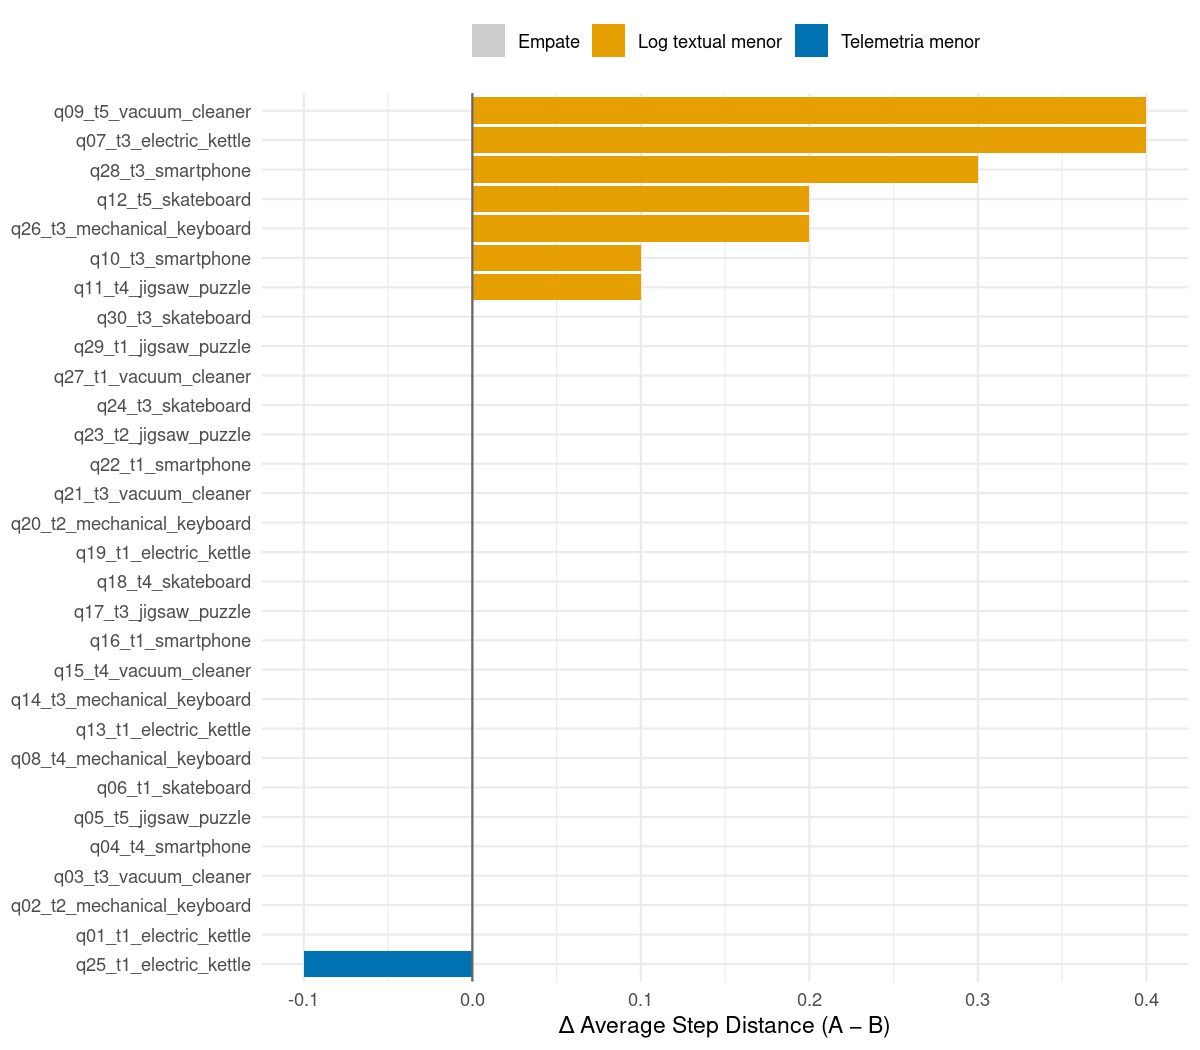
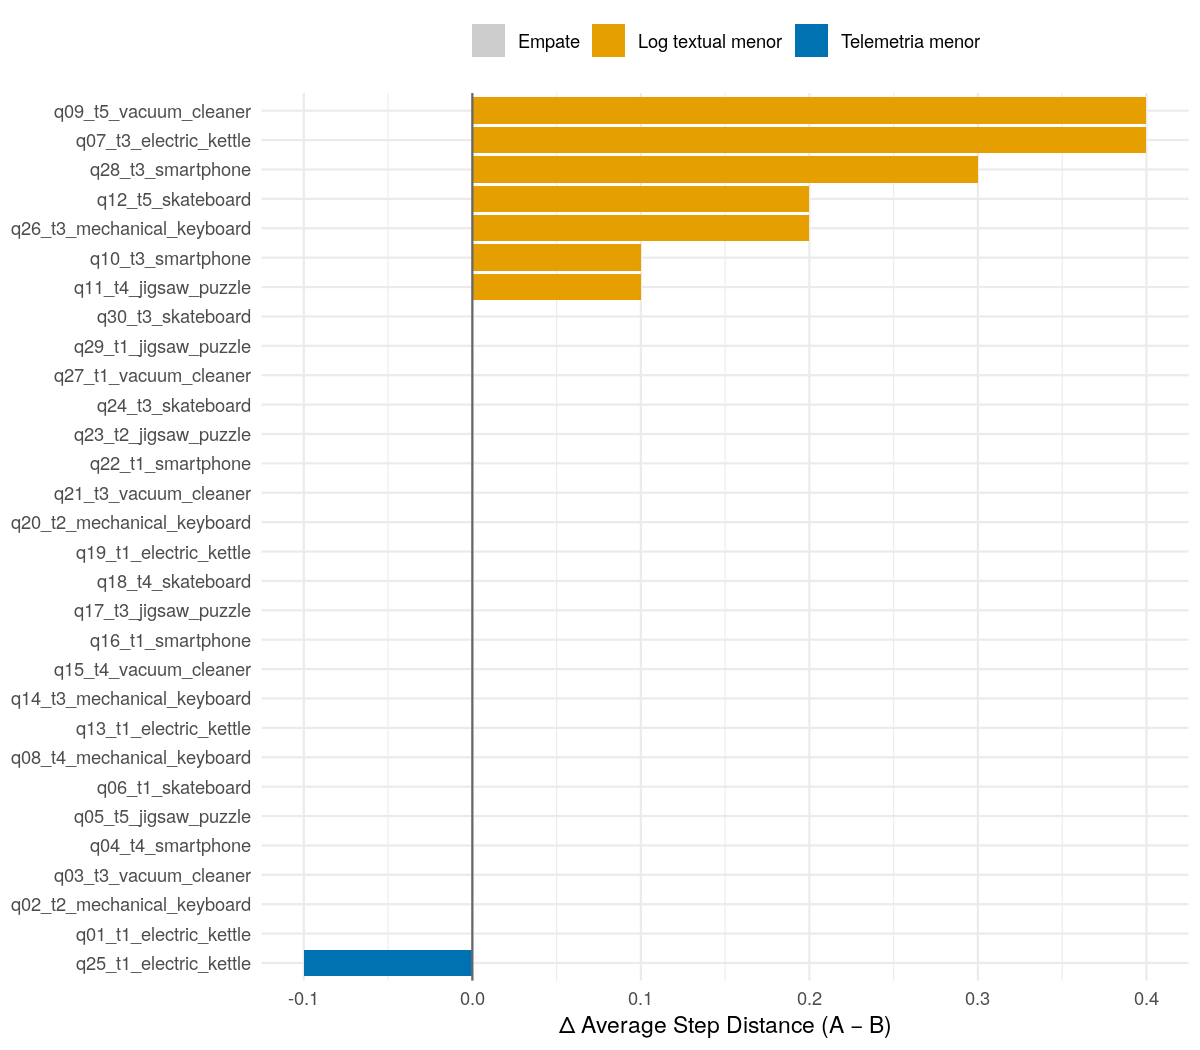
feat: add Renv and container to execute R

diff --git a/tests/test_r_environment.py b/tests/test_r_environment.py
@@ -1,0 +1,49 @@
+"""Static contracts for the reproducible R analysis environment."""
+
+from __future__ import annotations
+
+import json
+from pathlib import Path
+
+ROOT = Path(__file__).resolve().parent.parent
+
+
+def _content(path: Path) -> str:
+    return path.read_text(encoding="utf-8")
+
+
+def test_analysis_r_environment_contract_is_reproducible() -> None:
+    lockfile = json.loads(_content(ROOT / "renv.lock"))
+    packages = lockfile["Packages"]
+    makefile = _content(ROOT / "Makefile")
+    restore_script = _content(ROOT / "scripts" / "analysis" / "restore_renv.R")
+    dockerfile = _content(ROOT / "docker" / "analysis" / "Dockerfile")
+    analysis_guide = _content(ROOT / "data" / "experiment" / "analysis" / "README.md")
+
+    assert lockfile["R"]["Version"] == "4.1.2"
+    assert set(
+        "renv readr dplyr tidyr scales boot broom rmarkdown knitr ggplot2".split()
+    ) <= set(packages)
+    assert "renv::restore" in restore_script
+    assert '"renv", "library"' in restore_script
+
+    for target in ("r-restore:", "analyze-container:", "R_ANALYSIS_LIBRARY"):
+        assert target in makefile
+    assert '--volume "$(CURDIR):/workspace"' in makefile
+    for token in (
+        "FROM rocker/r-ver:4.1.2",
+        "curl",
+        "libuv1-dev",
+        "pandoc",
+        "restore_renv.R",
+    ):
+        assert token in dockerfile
+    assert '--user "$$(id -u):$$(id -g)"' in makefile
+    for command in ("`make r-restore`", "`make analyze-container`", "`renv.lock`"):
+        assert command in analysis_guide
+    for heading in (
+        "## Escolha como executar a análise",
+        "### Opção A — R local",
+        "### Opção B — Docker (sem R local)",
+    ):
+        assert heading in analysis_guide

diff --git a/src/agentrx_otel_poc/graph/spans.py b/src/agentrx_otel_poc/graph/spans.py
@@ -1,4 +1,4 @@
-"""Category-blind span helpers (R5).
+"""Category-blind span helpers.
 
 `render`-style helpers receive only step data (messages, role, operation, tool
 result). They never receive `target_fault_category`/`injection_node`; the same

diff --git a/docs/operacao.md b/docs/operacao.md
@@ -85,6 +85,51 @@ importa AgentRx nem recalcula as métricas. Além das seis tabelas, produz `anal
 fluxo não gera HTML. Veja os dicionários de [resultados](../data/experiment/results/README.md) e
 [análise](../data/experiment/analysis/README.md).
 
+## Escolha como executar a análise
+
+Após `make collect`, escolha **uma** das alternativas abaixo. Ambas leem o mesmo `metricas.csv` e `runs_long.csv`,
+escrevem os seis CSVs, o Markdown e os PNGs em `data/experiment/analysis/<mas_id>/<judge_id>/` e não geram HTML.
+
+Sem `METRICS`, os alvos resolvem a execução padrão a partir da configuração do MAS e do juiz. Para analisar um resultado
+específico, informe sempre `METRICS=data/experiment/results/<mas_id>/<judge_id>/metricas.csv`.
+
+### Opção A — R local
+
+Use se já tiver R 4.1.2 instalado. Na primeira vez (ou após alterar `renv.lock`), restaure o ambiente isolado do
+projeto:
+
+```bash
+make r-restore
+```
+
+Depois, gere a análise padrão ou selecione uma execução:
+
+```bash
+make analyze
+make analyze METRICS=data/experiment/results/<mas_id>/<judge_id>/metricas.csv
+```
+
+`make r-restore` é o único passo que instala ou baixa pacotes. A biblioteca `renv/library/` e o cache `.renv/` ficam
+fora do versionamento; `make analyze` não acessa a rede e indica como restaurar o ambiente se ele estiver ausente.
+
+### Opção B — Docker (sem R local)
+
+Use se não tiver R instalado, mas tiver Docker. O alvo `make analyze-container` constrói a imagem com R 4.1.2, Pandoc e
+o `renv.lock`; depois roda a mesma análise no repositório montado, preservando o UID:GID do usuário anfitrião.
+
+```bash
+make analyze-container
+make analyze-container METRICS=data/experiment/results/<mas_id>/<judge_id>/metricas.csv
+```
+
+Esse caminho requer Docker, mas não `Rscript` no anfitrião. A primeira execução baixa e constrói a imagem; as
+posteriores reutilizam suas camadas enquanto o lockfile não mudar.
+
+As células são valores de apresentação para as tabelas do artigo. Percentuais, contagens e estatísticas são serializados
+como texto para preservar formatação; células não aplicáveis são escritas vazias, não como `NA`. Requer `Rscript` e os
+pacotes `readr`, `dplyr`, `tidyr`, `scales`, `boot`, `broom`, `rmarkdown`, `knitr` e `ggplot2`, além de Pandoc. A
+geração não instala dependências nem acessa a rede.
+
 ### Fatiar ou retomar a matriz
 
 ```bash

diff --git a/data/experiment/analysis/README.md b/data/experiment/analysis/README.md
@@ -5,6 +5,46 @@
 relatório Markdown GFM e figuras PNG em `data/experiment/analysis/<mas_id>/<judge_id>/`. A análise é leitura pura: não
 importa AgentRx nem recalcula métricas do coletor.
 
+## Escolha como executar a análise
+
+Após `make collect`, escolha **uma** das alternativas abaixo. Ambas leem o mesmo `metricas.csv` e `runs_long.csv`,
+escrevem os seis CSVs, o Markdown e os PNGs em `data/experiment/analysis/<mas_id>/<judge_id>/` e não geram HTML.
+
+Sem `METRICS`, os alvos resolvem a execução padrão a partir da configuração do MAS e do juiz. Para analisar um resultado
+específico, informe sempre `METRICS=data/experiment/results/<mas_id>/<judge_id>/metricas.csv`.
+
+### Opção A — R local
+
+Use se já tiver R 4.1.2 instalado. Na primeira vez (ou após alterar `renv.lock`), restaure o ambiente isolado do
+projeto:
+
+```bash
+make r-restore
+```
+
+Depois, gere a análise padrão ou selecione uma execução:
+
+```bash
+make analyze
+make analyze METRICS=data/experiment/results/<mas_id>/<judge_id>/metricas.csv
+```
+
+`make r-restore` é o único passo que instala ou baixa pacotes. A biblioteca `renv/library/` e o cache `.renv/` ficam
+fora do versionamento; `make analyze` não acessa a rede e indica como restaurar o ambiente se ele estiver ausente.
+
+### Opção B — Docker (sem R local)
+
+Use se não tiver R instalado, mas tiver Docker. O alvo `make analyze-container` constrói a imagem com R 4.1.2, Pandoc e
+o `renv.lock`; depois roda a mesma análise no repositório montado, preservando o UID:GID do usuário anfitrião.
+
+```bash
+make analyze-container
+make analyze-container METRICS=data/experiment/results/<mas_id>/<judge_id>/metricas.csv
+```
+
+Esse caminho requer Docker, mas não `Rscript` no anfitrião. A primeira execução baixa e constrói a imagem; as
+posteriores reutilizam suas camadas enquanto o lockfile não mudar.
+
 As células são valores de apresentação para as tabelas do artigo. Percentuais, contagens e estatísticas são serializados
 como texto para preservar formatação; células não aplicáveis são escritas vazias, não como `NA`. Requer `Rscript` e os
 pacotes `readr`, `dplyr`, `tidyr`, `scales`, `boot`, `broom`, `rmarkdown`, `knitr` e `ggplot2`, além de Pandoc. A

diff --git a/data/experiment/analysis/Gemma3-27B-RUN-3/judge-codex-gpt-5-5/analysis_report.md b/data/experiment/analysis/Gemma3-27B-RUN-3/judge-codex-gpt-5-5/analysis_report.md
@@ -1,19 +1,6 @@
 MAS-SIM — Telemetria (A) vs Log textual (B)
 ================
 
-  - [Resumo descritivo](#resumo-descritivo)
-      - [Acurácias](#acurácias)
-      - [Distância de passo](#distância-de-passo)
-  - [Localização da etapa crítica](#localização-da-etapa-crítica)
-      - [Resultados por categoria](#resultados-por-categoria)
-  - [Classificação da causa raiz](#classificação-da-causa-raiz)
-      - [Acurácia de categoria por
-        cenário](#acurácia-de-categoria-por-cenário)
-  - [Comparação pareada](#comparação-pareada)
-      - [Distância por cenário](#distância-por-cenário)
-      - [Testes inferenciais](#testes-inferenciais)
-  - [Placar por cenário](#placar-por-cenário)
-
 **MAS:** Gemma3-27B-RUN-3 | **Juiz:** judge-codex-gpt-5-5 |
 **Cenários:** 30 | **Repetições por cenário:** 10
 

diff --git a/docs/prd/PRD-08-decisions-log.md b/docs/prd/PRD-08-decisions-log.md
@@ -51,6 +51,7 @@ descartadas. Acrescentar ao final; não reescrever o histórico.
 | D44 | **Análise A/B (C8) em R modular, só tabelas** (change `analyze-results-c8`): `c8_lib.R`/`c8_tables.R`/`c8_run.R` leem `metricas.csv` **e** `runs_long.csv` e escrevem as 6 tabelas do artigo em `data/experiment/analysis/<mas_id>/<judge_id>/` (`make analyze`). A tabela de frequência/MAE por categoria exige o **por-rep** (`runs_long.csv`); as demais vêm do agregado. **Rótulos seguem o artigo** (design D7): braço B = "Log textual (B)" (não "AgentRx (B)"), métricas canônicas (`Critical Step Accuracy`/`Failure Category Accuracy`/`Average Step Distance`), categorias com nome completo, experimento "MAS-SIM". **Escrita em thread única** (`readr.num_threads=1`): a escrita paralela do vroom rasgava strings multibyte (✓/✗) de forma nondeterminística → só assim os CSVs são byte-estáveis. **Figuras adiadas** (change futura); `analyze_results.R` monólito aposentado | Leitura pura (não recomputa métrica, não importa `agentrx`; regra 6); reprodutibilidade exige idempotência byte a byte; alinhar rótulos ao artigo evita divergência entre CSV e manuscrito; R fica fora do `make check` (passo pós-experimento offline) | Manter o monólito tabelas+figuras (dois geradores divergentes); rótulos do Rmd antigo ("AgentRx (B)"); escrita multithread default (quebra idempotência); saída em nível único `analysis/<experiment_id>/` (colide entre MASes de mesmo juiz) |
 | D45 | **IC da diferença de `Average Step Distance` por bootstrap BCa pareado** (change `atualizar-analise-limpar-comentarios`): `boot::boot` reamostra as linhas cenário×{A,B} da tabela larga, calcula a média de `telemetry - agentrx` e `broom` extrai o IC BCa; seed 42 e 5.000 reamostragens. A tabela e o dicionário identificam explicitamente o método. | BCa substitui o intervalo percentil manual e conserva o pareamento ao reamostrar o cenário completo; seed e número de reamostragens tornam o artefato reproduzível. Não altera as métricas do coletor, apenas a inferência C8. | Bootstrap percentil por quantis de diferenças (não fornece correção BCa); reamostrar A e B separadamente (quebraria o desenho pareado). |
 | D46 | **C8 publica relatório em Markdown GFM** (change `gerar-relatorio-analise-rmd`): `make analyze` mantém as seis tabelas CSV e também renderiza `analysis_report.md` com PNGs relativos em `analysis_report_files/figure-gfm/`, no mesmo namespace `<mas_id>/<judge_id>`. O template consome `c8_context()` e não reimplementa inferência; Pandoc e pacotes R são pré-requisitos explícitos, nunca baixados durante a análise. | GFM é versionável, legível no repositório e atende ao requisito de relatório Markdown. Compartilhar o contexto C8 evita divergência de método, inclusive do IC BCa. Saídas ficam derivadas do mesmo par de CSVs sem tocar no coletor. | HTML, PDF, dashboard e Rmd com caminho/conclusão/repetições fixos; instalar pacotes dinamicamente ou manter cálculos duplicados no template. |
+| D47 | **Ambiente R do C8 = `renv` local + Docker opcional** (change `gerar-relatorio-analise-rmd`): `renv.lock` fixa R 4.1.2 e as dependências do C8; `make r-restore` instala explicitamente na biblioteca isolada `renv/library/`; `make analyze` só consome ambiente pronto e nunca baixa pacotes. `make analyze-container` constrói imagem com o mesmo lockfile, R e Pandoc para máquinas sem R local, executando com UID:GID do anfitrião. | `renv` reproduz os pacotes no escopo do projeto, mas não virtualiza o interpretador R. Docker completa esse caso sem alterar o fluxo Python nem permitir rede no caminho de análise. | `renv` sem contêiner (ainda exige R local); instalação implícita em `make analyze` (mistura setup com geração e quebra execução offline); imagem com versões soltas dos pacotes. |
 
 ## Consequências de D31 (revisadas)
 